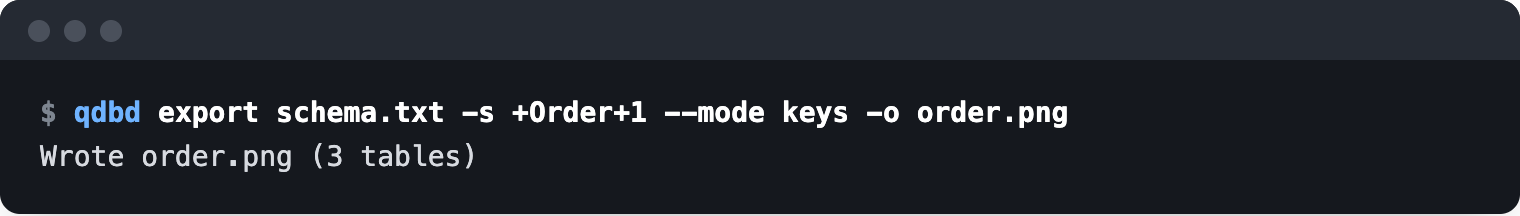
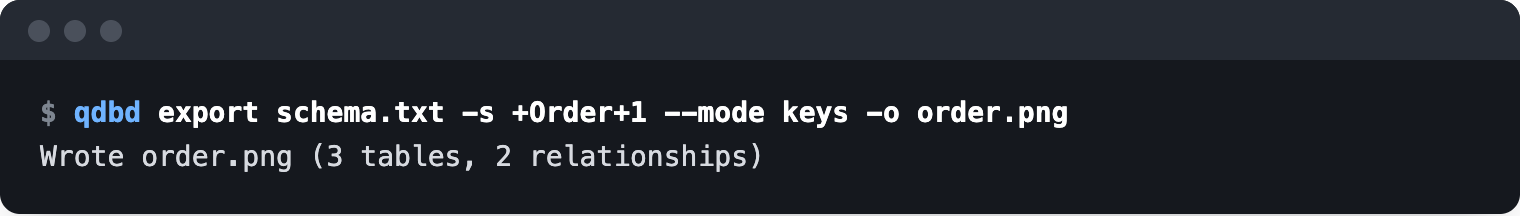
export prints the same summary as build: tables, relationships, regions. Release 0.6.10
export's Wrote line only counted tables. It now counts the relationships drawn between the exported
tables and, with --regions or --by-group, the regions.

Changed region(s): [[0.3092, 0.6667, 0.4947, 0.7778]]

diff --git a/src/quickdbd_cli/cli.py b/src/quickdbd_cli/cli.py
@@ -170,11 +170,14 @@ def _built_page(args) -> tuple[str, dict] | int:
     return render_page(model, pos, _title(project)), model
 
 
-def _summary(model: dict) -> str:
-    """Table and relationship counts, plus the region count when ``--by-group`` drew regions."""
-    s = counts(len(model["tables"]), len(model["rels"]))
-    if model.get("regions"):
-        n = len({t["group"] for t in model["tables"] if t.get("group")})
+def _summary(model: dict, only: list[str] | None = None, regions: bool | None = None) -> str:
+    """Counts of what was drawn: tables (``only``, else all), relationships between them, and regions if drawn
+    (``regions``, else the model's ``--by-group`` flag)."""
+    ids = set(only) if only else {t["id"] for t in model["tables"]}
+    rels = [r for r in model["rels"] if r["a"]["t"] in ids and r["b"]["t"] in ids]
+    s = counts(len(ids), len(rels))
+    if model.get("regions") if regions is None else regions:
+        n = len({t["group"] for t in model["tables"] if t["id"] in ids and t.get("group")})
         s += f", {n} region{'s' * (n != 1)}"
     return s
 
@@ -309,7 +312,7 @@ def cmd_export(args) -> int:
             export.render_drawio(model, pos, only=only, mode=args.mode, title=_title(project), regions=regions),
             encoding="utf-8",
         )
-        print(f"Wrote {out} ({len(only) if only else len(model['tables'])} tables)")
+        print(f"Wrote {out} ({_summary(model, only, regions)})")
         return 0
     svg = export.render_svg(model, pos, only=only, mode=args.mode, embed_font=(fmt == "svg"), regions=regions)
     if fmt == "svg":
@@ -320,7 +323,7 @@ def cmd_export(args) -> int:
             note = f"--scale lowered to {scale:.2f} to keep the PNG within {export.MAX_PNG_SIDE} px"
             print(f"note: {note}", file=sys.stderr)
         out.write_bytes(export.svg_to_png(svg, scale))
-    print(f"Wrote {out} ({len(only) if only else len(model['tables'])} tables)")
+    print(f"Wrote {out} ({_summary(model, only, regions)})")
     return 0
 
 

diff --git a/tests/test_pipeline.py b/tests/test_pipeline.py
@@ -484,6 +484,7 @@ def test_by_group_cli(tmp_path, capsys):
     svg = tmp_path / "g.svg"
     assert main(["export", str(work), "--by-group", "-o", str(svg)]) == 0
     assert svg.read_text().count('class="rg"') == 5
+    assert "(200 tables, 211 relationships, 5 regions)" in capsys.readouterr().out
     drawio = tmp_path / "g.drawio"
     assert main(["export", str(work), "--regions", "-o", str(drawio)]) == 0
     assert drawio.read_text().count("verticalAlign=top;align=left;spacingLeft=12") == 5

diff --git a/tests/test_select.py b/tests/test_select.py
@@ -123,7 +123,7 @@ def test_export_select_compacts_layout(tmp_path, capsys):
 
     root = write_files(tmp_path)
     assert main(["export", str(root), "-s", "+order_items", "-o", str(tmp_path / "x.svg")]) == 0
-    assert "(4 tables)" in capsys.readouterr().out
+    assert "(4 tables, 3 relationships)" in capsys.readouterr().out
 
 
 def test_select_errors(tmp_path, capsys):

diff --git a/src/quickdbd_cli/__init__.py b/src/quickdbd_cli/__init__.py
@@ -1,1 +1,1 @@
-__version__ = "0.6.9"
+__version__ = "0.6.10"
